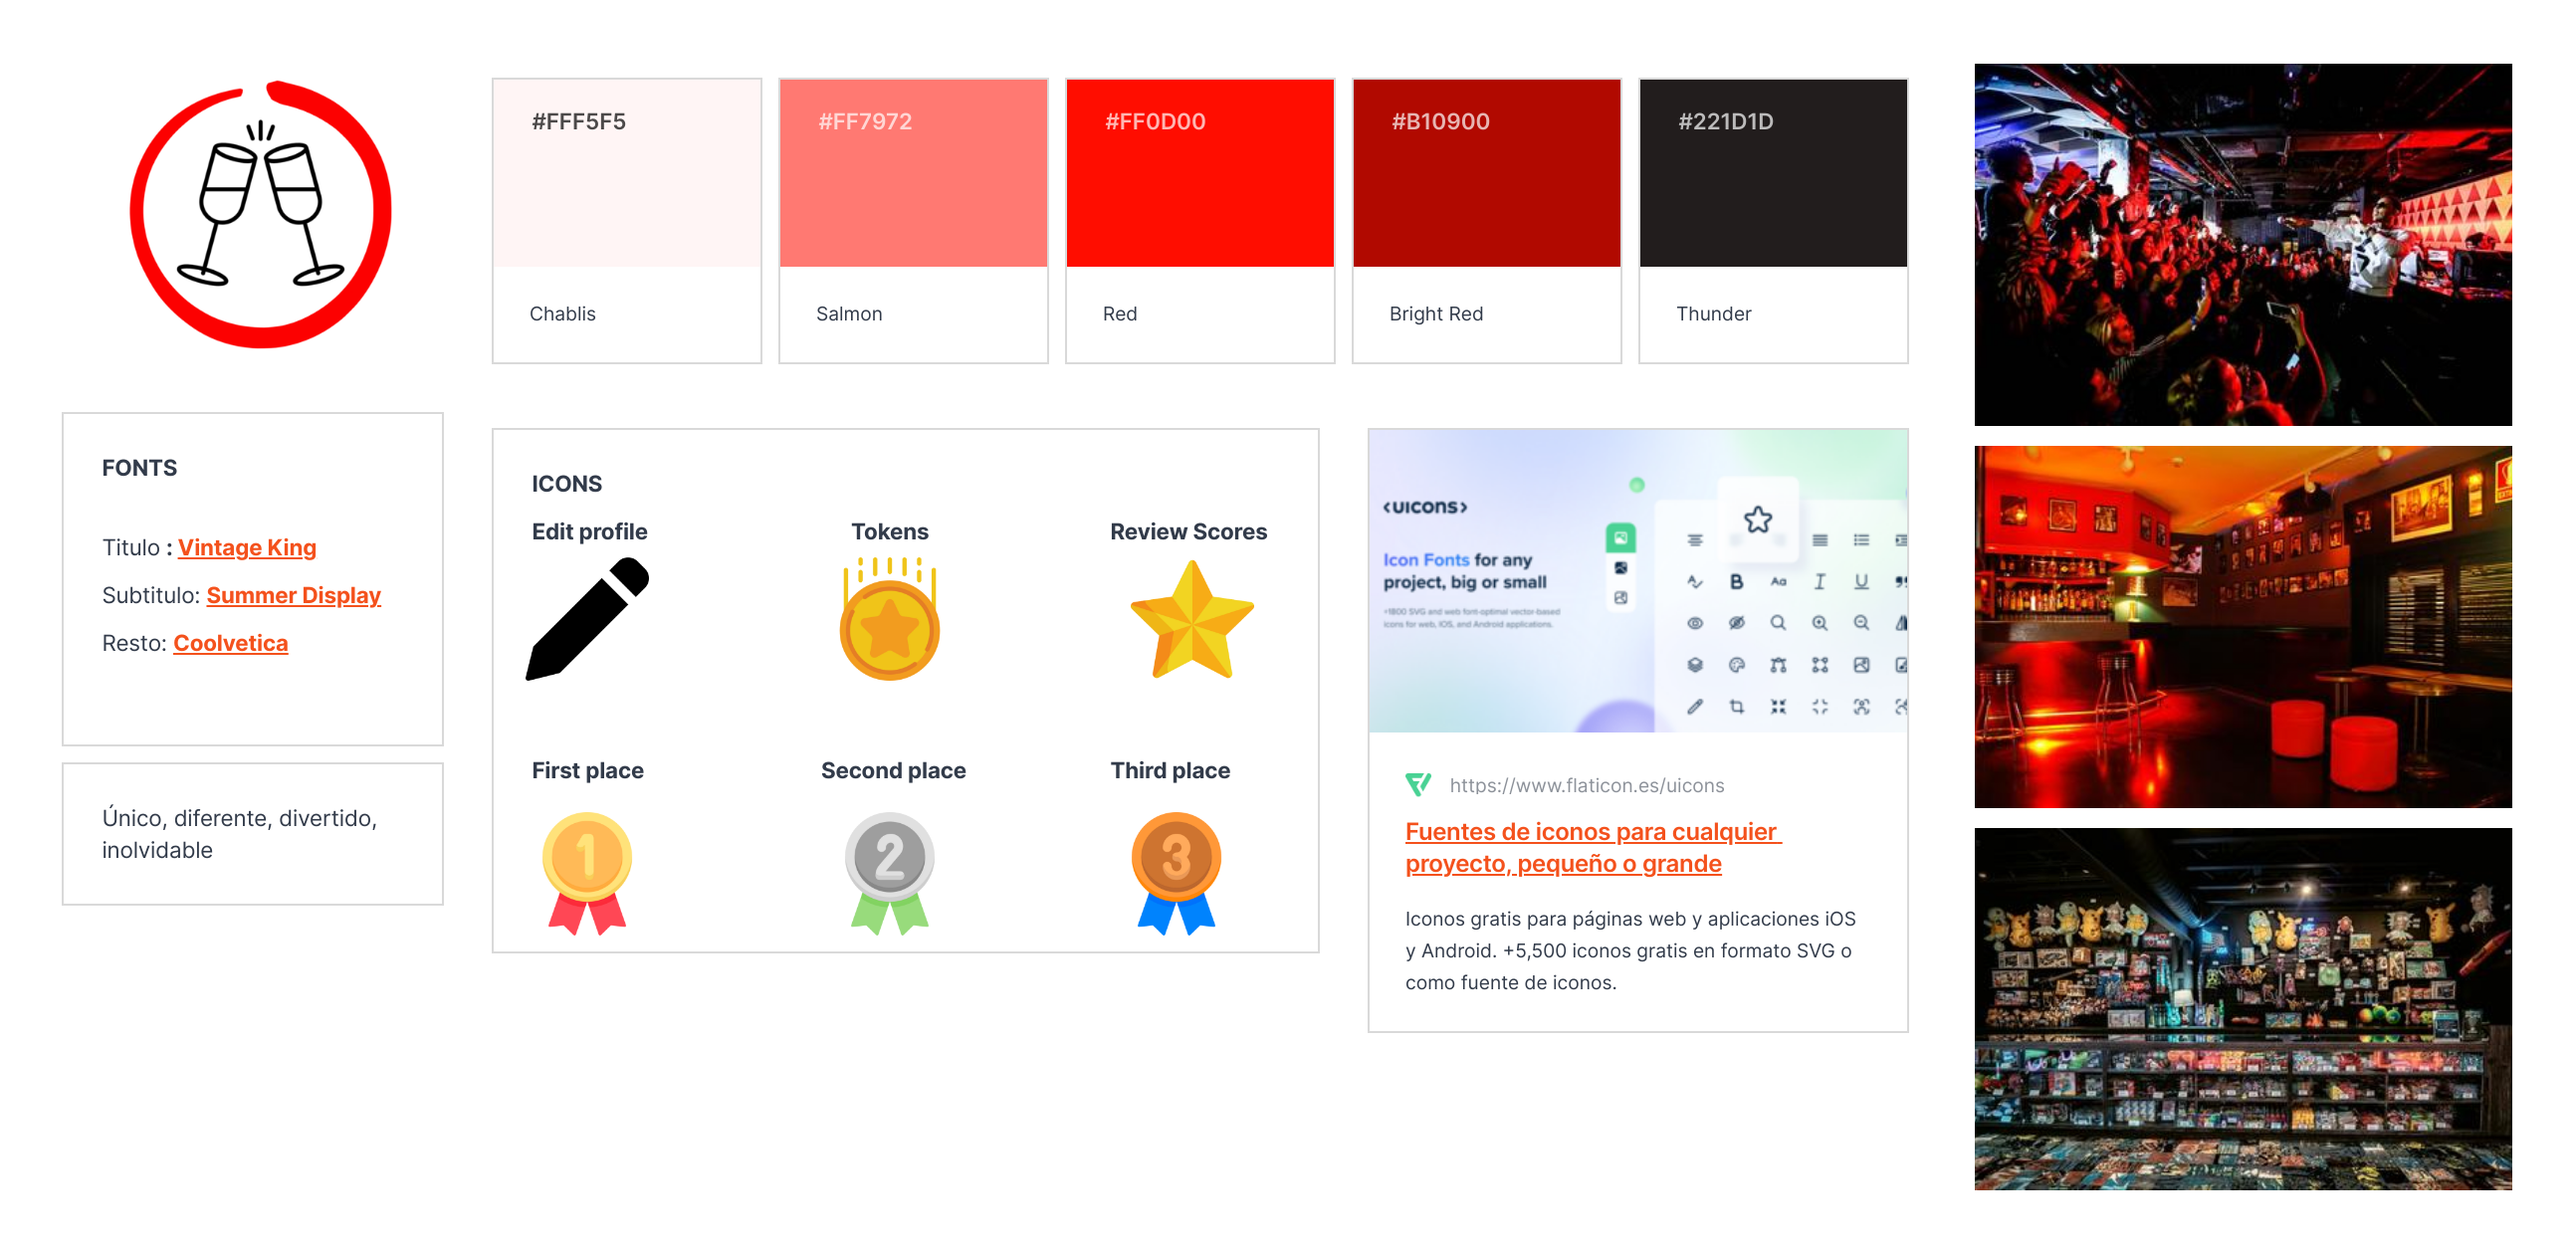
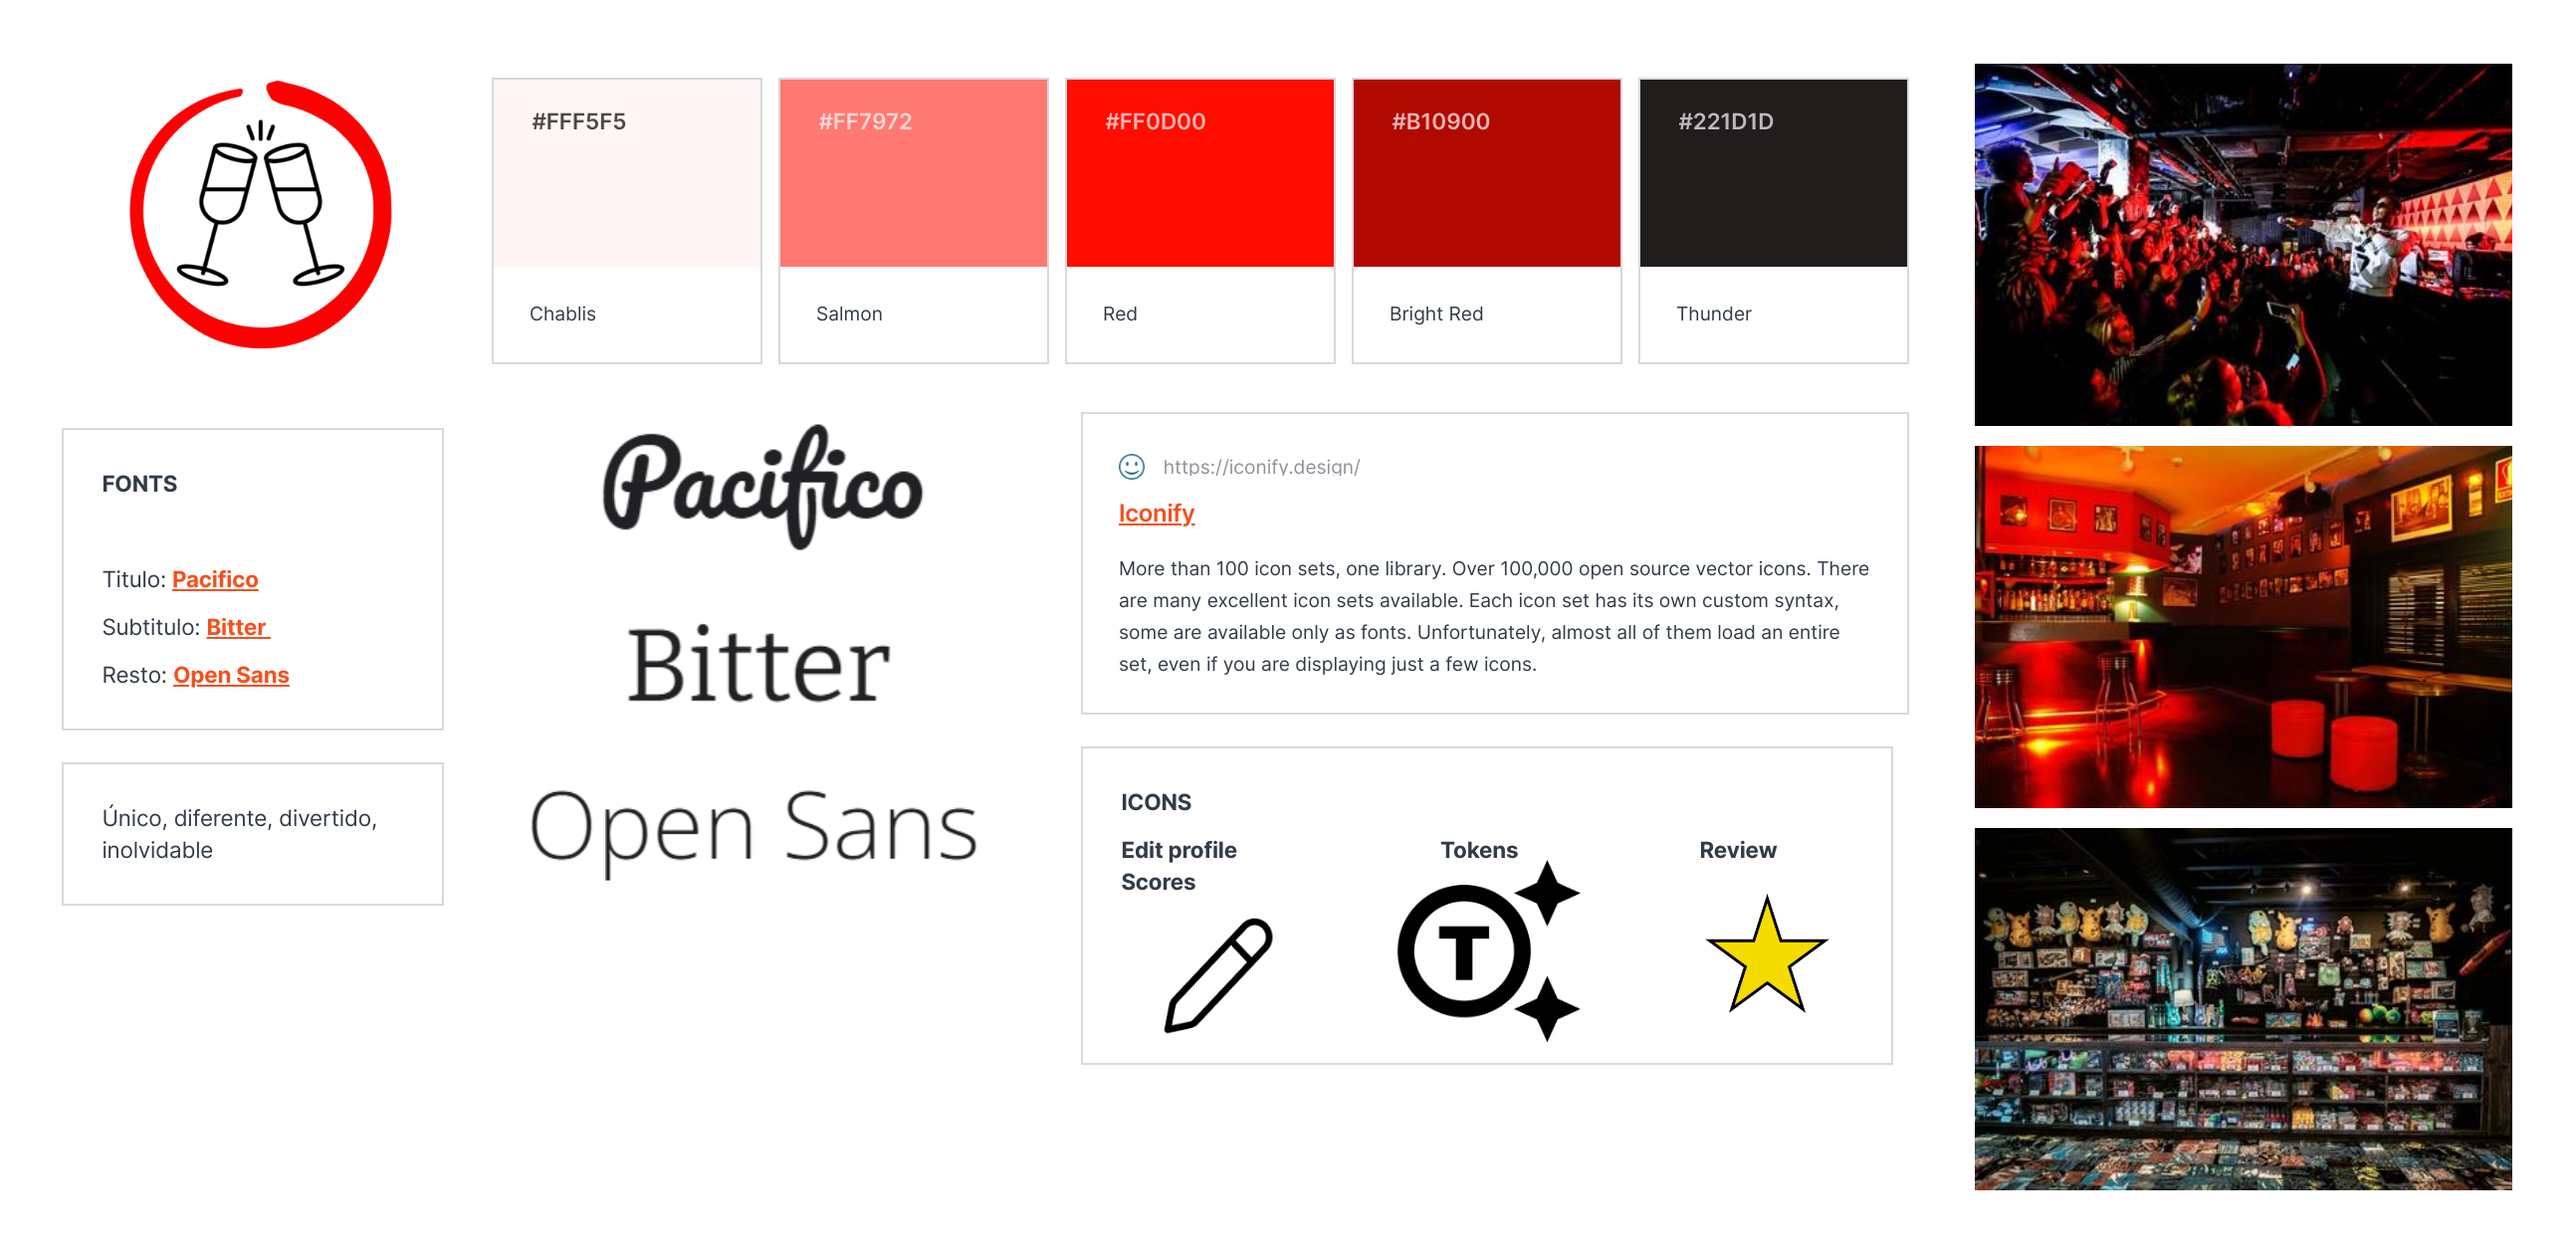
Cambios

diff --git a/README.md b/README.md
@@ -206,6 +206,16 @@ Al tratarse de la fuente para los subtítulos, hemos buscado una fuente que resu
 <b>Coolvetica</b><br>
 Coolvetica ha sido seleccionada en base al principio de querer una letra sencilla y fácil de leer en cantidades medio abundantes, pero tampoco ser muy diferente a lo que supuestamente los usuarios leerán antes, “Summer Display”, de esa manera no crear un choque en el cambio de letra y hacer que la lectura esté muy integrada.
 
+<<<<<<< Updated upstream
+=======
+explicar patrones:
+    
+    Leaderboard: Debido a ese ambiente competitivo que pueda llegar a generarse en el mismo hemos visto necesario usar un leaderboard en el que los usuarios interesados puedan ver quienes estan en la cabeza en la obtencion de puntos
+    
+    Vote to Promote: Para escoger que productos ponemos mas arriba en el catalogo, vamos a seguir el patron de Vote to Promote. De esta forma los usuarios que entren y canjeen por un producto, puedan dar su valoracion y asi esta saldra mas arriba en el catalogo para el resto de usuarios
+
+    Lazy Registration: Como el registro no es algo necesariamente importante en nuestra aplicacion, mas alla de asociar a algun usuario una cantidad de puntos especifica, hemos optado por el patron de diseño Lazy Registration para agilizar al maximo dicha experiencia al usuario y pueda empezar a usar la aplicacion al maximo lo antes posible. Es por ello que nos hemos visto en la tesitura de cambiar el antiguo WireFrame de registro para minimizar al maximo la informacion necesaria, quedandonos unicamente con nombre de usuario y contraseña
+>>>>>>> Stashed changes
 
 <b>PALETA DE COLORES</b><br>
 En cuanto a la paleta de colores se ha tomado una paleta de colores cálidos a excepción del blanco, con el objetivo de ir a juego con el color del vino/tinto al igual que con la época de verano, donde aquí en el sur suele destacar mucho por el calor (rojo en los medios de comunicación). Además, se han tenido en cuenta los colores principales de Carlota Braun, para no olvidar ni hacer una gran distinción entre el evento y el establecimiento, porque al fin y al cabo, es un evento realizado por Carlota Braun, por lo que requiere reconocimiento.
